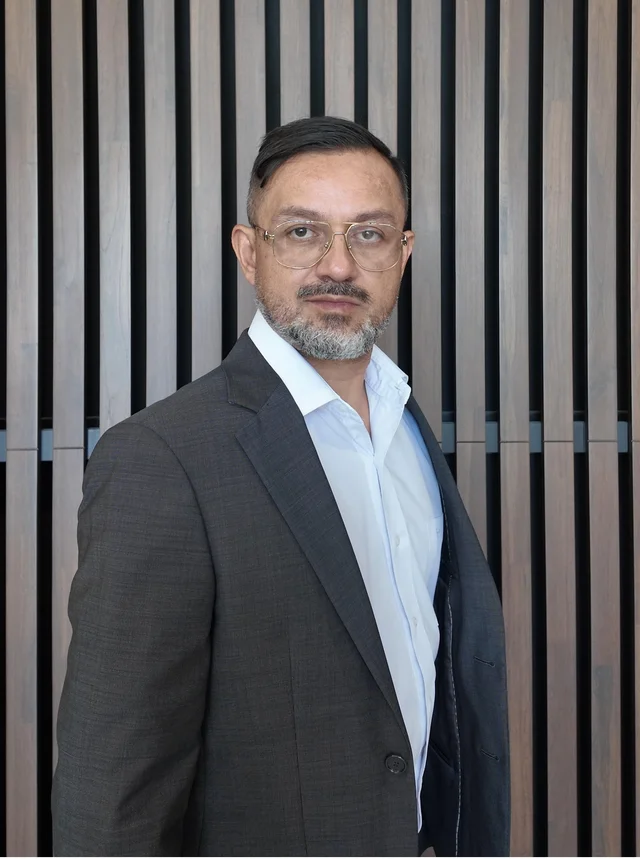
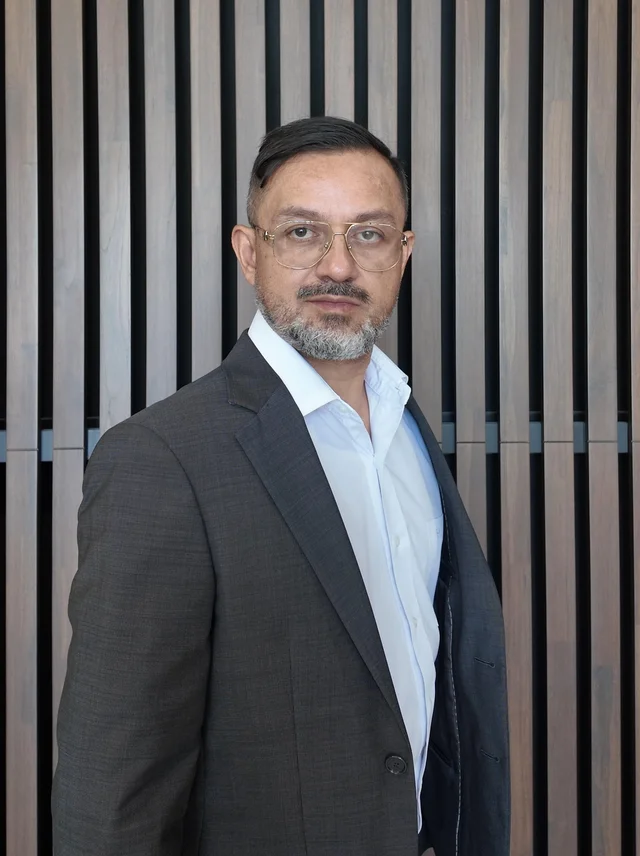
fix: update erick photo v3 + tighter gold border offset (5px/3px)

diff --git a/index.html b/index.html
@@ -200,10 +200,10 @@
     .subhero-inner{position:relative;z-index:1;max-width:700px}
     .socio-section{background:linear-gradient(180deg,#0F0F11,#121214)}
     .socio-grid{display:grid;grid-template-columns:1fr 1.5fr;gap:88px;align-items:start}
-    .socio-photo{position:relative;animation:socio-fade 1s ease-out 0.2s both;padding:0 12px 12px 0}
+    .socio-photo{position:relative;animation:socio-fade 1s ease-out 0.2s both;padding:0 8px 8px 0}
     @keyframes socio-fade{from{opacity:0;transform:translateY(24px)}to{opacity:1;transform:translateY(0)}}
     .socio-photo img{width:100%;height:auto;display:block;border-radius:2px;max-width:420px;position:relative;z-index:1}
-    .socio-photo::after{content:'';position:absolute;inset:8px -4px -4px 8px;border:1px solid var(--gold-dim);border-radius:2px;z-index:0}
+    .socio-photo::after{content:'';position:absolute;inset:5px -3px -3px 5px;border:1px solid var(--gold-dim);border-radius:2px;z-index:0}
     .socio-nombre{font-family:var(--serif);font-size:32px;font-weight:400;margin-bottom:8px;line-height:1.2}
     .socio-titulo{font-size:12px;letter-spacing:.2em;text-transform:uppercase;color:var(--gold);margin-bottom:6px}
     .socio-licencia{font-size:12px;color:var(--text-mute);letter-spacing:.1em;margin-bottom:32px;display:flex;align-items:center;gap:10px}
@@ -335,7 +335,7 @@
         </div>
         <div class="socio-grid">
           <div class="socio-photo">
-            <img src="erick-profile.webp" alt="Eric Rojas Z." width="640" height="859">
+            <img src="erick-profile.webp" alt="Eric Rojas Z." width="640" height="856">
           </div>
           <div class="reveal delay-2">
             <div class="socio-titulo">Socio Principal &amp; Director General</div>